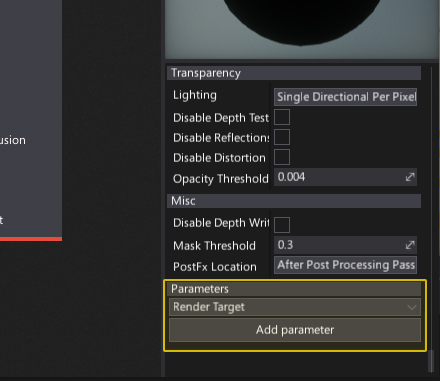
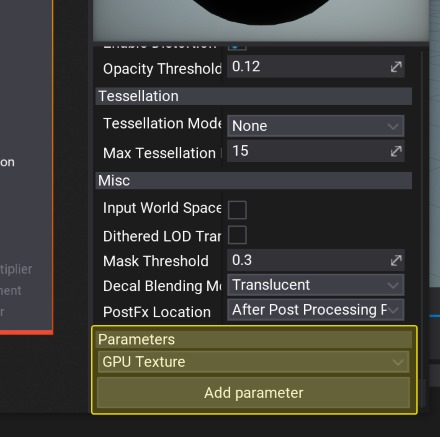
Update image & text : Render Target -> GPU Texture

diff --git a/manual/graphics/cameras/render-camera-to-texture.md b/manual/graphics/cameras/render-camera-to-texture.md
@@ -15,7 +15,7 @@ The first step is to create a dedicated material for the TV object. It will be u
 2. Open it in Material Editor (double-click on an asset)
    ![Material Editor](media/picture-in-picture-2.jpg)
 
-3. Scroll down the *Properties Panel*, select **Render Target** option from the bottom drop down menu and press **Add parameter** button
+3. Scroll down the *Properties Panel*, select **GPU Texture** option from the bottom drop down menu and press **Add parameter** button
    <br>![Material Parameter](media/picture-in-picture-3.jpg)
 
 4. Right-click on created *New parameter*, select option **Rename** and set its name to **Image**
